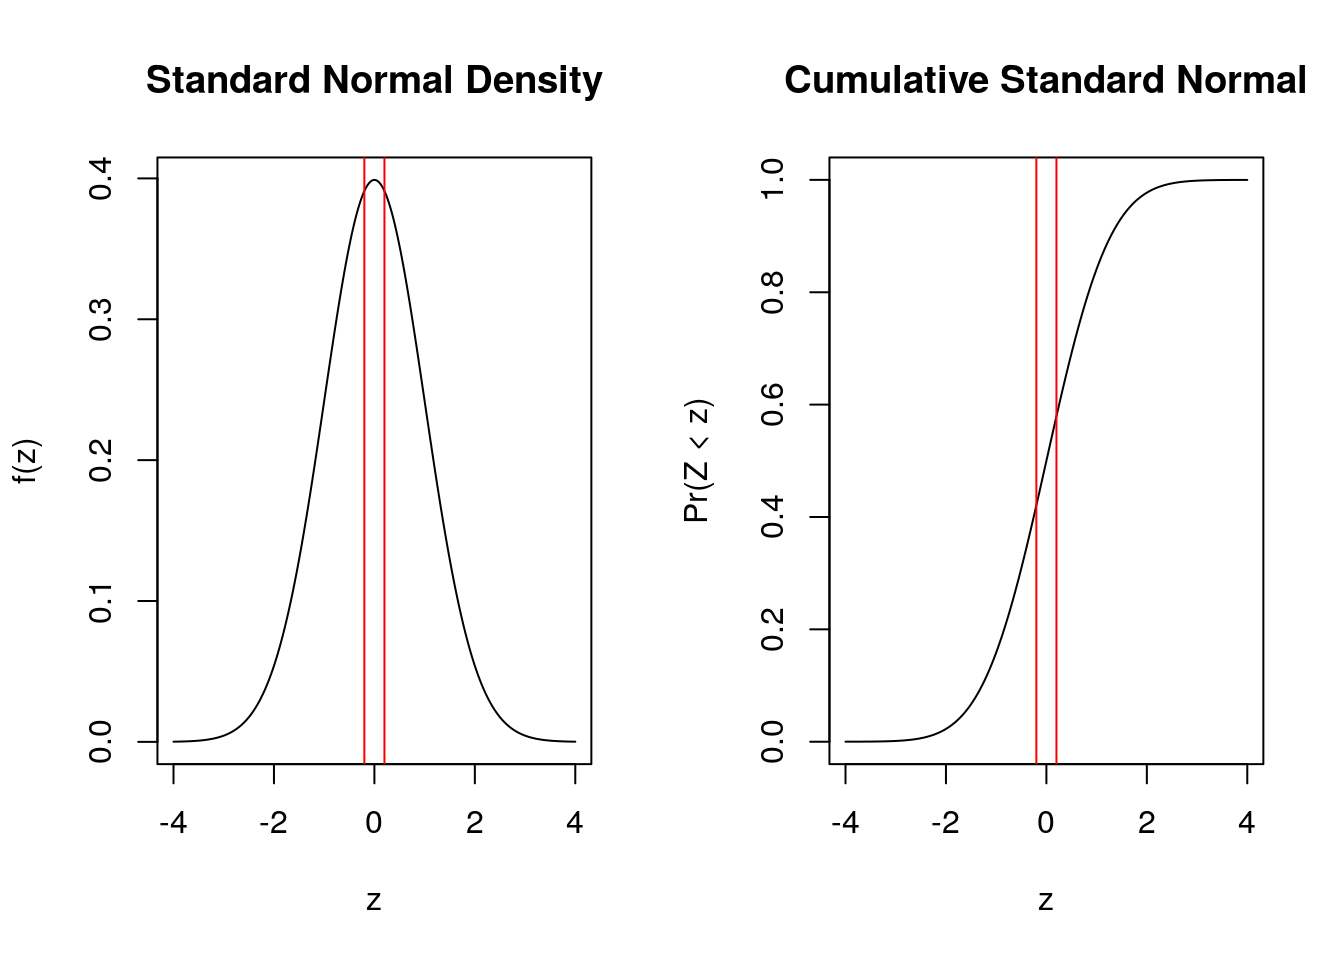
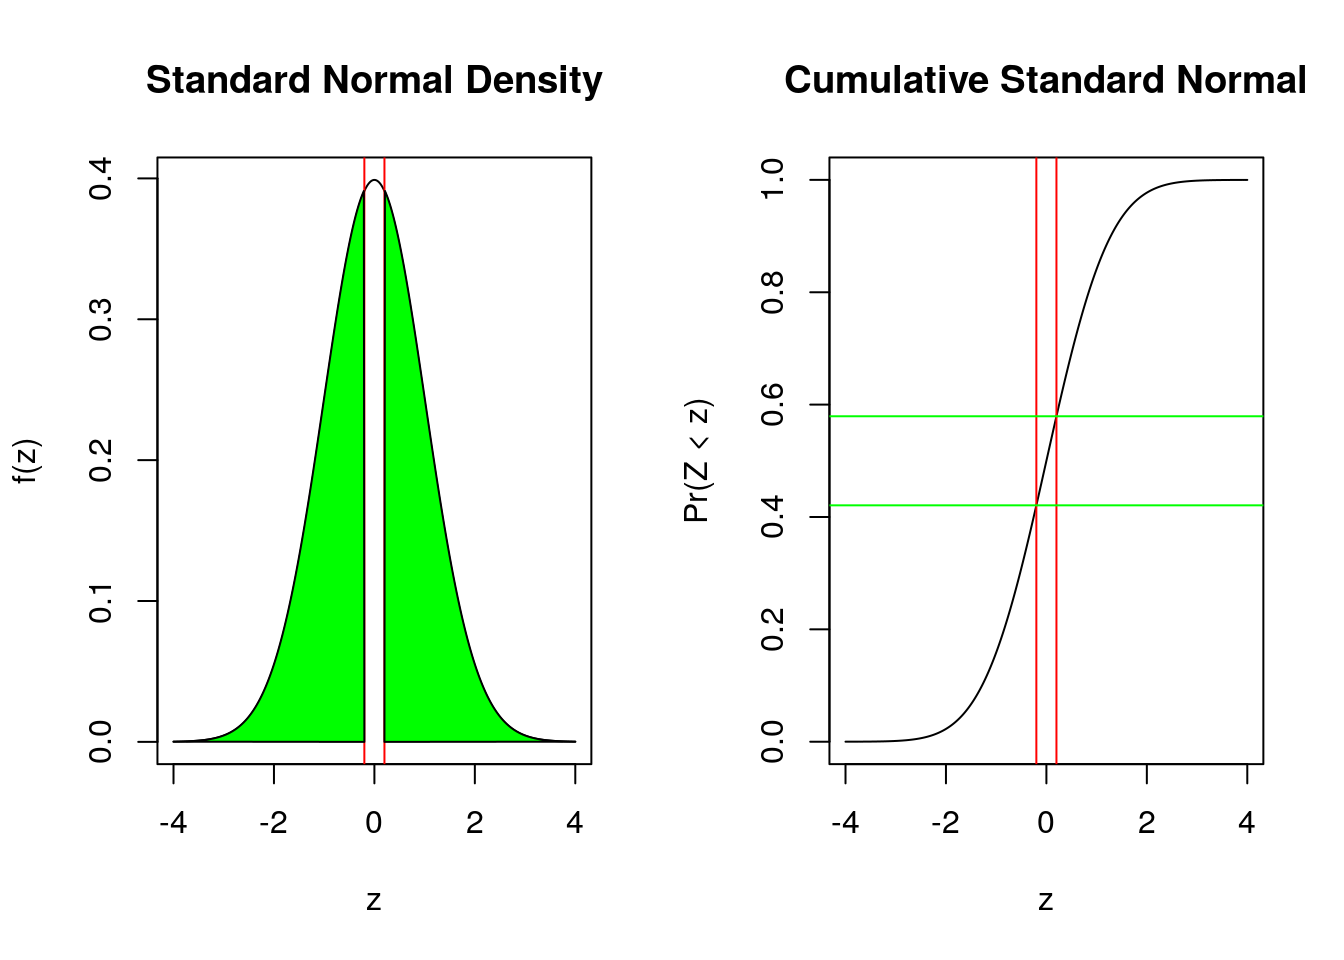
Fix post on proportions

Changed region(s): [[0.1562, 0.2188, 0.4062, 0.7812]]

diff --git a/public/r/workedproportion/index.html b/public/r/workedproportion/index.html
@@ -440,8 +440,11 @@ abline(h=c(0.025,0.975), col=&quot;red&quot;)</code></pre>
 <pre class="r"><code>par(mfrow=c(1,2))
 plot(x=seq(-4,4, by=0.01), y=dnorm(seq(-4,4, by=0.01)), type=&quot;l&quot;, xlab=&quot;z&quot;, main=&quot;Standard Normal Density&quot;, ylab=&quot;f(z)&quot;)
 abline(v=c(-0.2,0.2), col=&quot;red&quot;)
+polygon(x=c(-4,seq(-4,-0.2, by=0.01)), y=c(dnorm(seq(-4,-0.2, by=0.01)), 0), col=&quot;green&quot;)
+polygon(x=c(seq(0.2, 4, by=0.01), 4), y=c(0,dnorm(seq(0.2,4, by=0.01))), col=&quot;green&quot;)
 plot(x=seq(-4,4, by=0.01), y=pnorm(seq(-4,4, by=0.01)), type=&quot;l&quot;, xlab=&quot;z&quot;, main=&quot;Cumulative Standard Normal&quot;, ylab=&quot;Pr(Z &lt; z)&quot;)
-abline(v=c(-0.2,0.2), col=&quot;red&quot;)</code></pre>
+abline(v=c(-0.2,0.2), col=&quot;red&quot;)
+abline(h=c(pnorm(c(-0.2,0.2))), col=&quot;green&quot;)</code></pre>
 <p><img src="/R/WorkedProportion_files/figure-html/unnamed-chunk-5-1.png" width="672" /></p>
 <p>That’s the area below -0.2 and above 0.2, or</p>
 <pre class="r"><code>pnorm(-0.2)+1-pnorm(0.2)</code></pre>
@@ -458,18 +461,20 @@ abline(v=c(-0.2,0.2), col=&quot;red&quot;)</code></pre>
 ## sample estimates:
 ##    p 
 ## 0.51</code></pre>
-<p>0.51 is too close to 0.5 with this size of sample to conclude that the <em>true</em> probability isn’t 0.5.</p>
+<p>0.51 is too close to 0.5 with this size of sample to conclude that the <em>true</em> probability isn’t 0.5. Note the use of <code>correct=FALSE</code>. The binomial is discrete and we are approximating it with a normal, there is a famous correction to better approximate continuity that is the default in <em>R</em>. The statistic that <em>R</em> reports is <span class="math inline">\(\chi^2\)</span> – a squared normal or the square of our <span class="math inline">\(z\)</span>.</p>
 </div>
 <div id="directional-claims" class="section level1">
 <h1>Directional Claims</h1>
-<p>Now we only place the <span class="math inline">\(z\)</span> we obtained on the graph.</p>
+<p>Now we only place the <span class="math inline">\(z\)</span> we obtained on the graph. Let’s look at the two directions we could examine. Is the <em>true</em> probability 0.5 or greater, compared to less? If it is less, we would expect the sample data to be below the claim. Here, it is not, but the p-value will simply measure all of the probability up to the <span class="math inline">\(z\)</span> we obtained: 0.2.</p>
 <pre class="r"><code>par(mfrow=c(1,2))
 plot(x=seq(-4,4, by=0.01), y=dnorm(seq(-4,4, by=0.01)), type=&quot;l&quot;, xlab=&quot;z&quot;, main=&quot;Standard Normal Density&quot;, ylab=&quot;f(z)&quot;)
 abline(v=c(0.2), col=&quot;red&quot;)
+polygon(x=c(-4,seq(-4,0.2, by=0.01)), y=c(dnorm(seq(-4,0.2, by=0.01)), 0), col=&quot;purple&quot;)
 plot(x=seq(-4,4, by=0.01), y=pnorm(seq(-4,4, by=0.01)), type=&quot;l&quot;, xlab=&quot;z&quot;, main=&quot;Cumulative Standard Normal&quot;, ylab=&quot;Pr(Z &lt; z)&quot;)
-abline(v=c(0.2), col=&quot;red&quot;)</code></pre>
+abline(v=c(0.2), col=&quot;red&quot;)
+abline(h=pnorm(0.2), col=&quot;purple&quot;)</code></pre>
 <p><img src="/R/WorkedProportion_files/figure-html/unnamed-chunk-7-1.png" width="672" /></p>
-<p>Now let’s look at the two directions we could examine. Is the <em>true</em> probability 0.5 or greater, compared to less? If it is less, we would expect the sample data to be below the claim. Here, it is not, but the p-value will simply measure all of the probability up to the <span class="math inline">\(z\)</span> we obtained: 0.2.</p>
+<p>That’s quite likely.</p>
 <pre class="r"><code>pnorm(0.2)</code></pre>
 <pre><code>## [1] 0.5792597</code></pre>
 <pre class="r"><code>prop.test(51,100, correct=FALSE, alternative = &quot;less&quot;)</code></pre>
@@ -485,6 +490,14 @@ abline(v=c(0.2), col=&quot;red&quot;)</code></pre>
 ##    p 
 ## 0.51</code></pre>
 <p>Were we to instead evaluate the claim that it is 0.5 against the alternative that it is greater, we want the upper tail probability of 0.2.</p>
+<pre class="r"><code>par(mfrow=c(1,2))
+plot(x=seq(-4,4, by=0.01), y=dnorm(seq(-4,4, by=0.01)), type=&quot;l&quot;, xlab=&quot;z&quot;, main=&quot;Standard Normal Density&quot;, ylab=&quot;f(z)&quot;)
+abline(v=c(0.2), col=&quot;red&quot;)
+polygon(x=c(seq(0.2, 4, by=0.01), 4), y=c(0,dnorm(seq(0.2,4, by=0.01))), col=&quot;magenta&quot;)
+plot(x=seq(-4,4, by=0.01), y=pnorm(seq(-4,4, by=0.01)), type=&quot;l&quot;, xlab=&quot;z&quot;, main=&quot;Cumulative Standard Normal&quot;, ylab=&quot;Pr(Z &lt; z)&quot;)
+abline(v=c(0.2), col=&quot;red&quot;)
+abline(h=pnorm(0.2), col=&quot;magenta&quot;)</code></pre>
+<p><img src="/R/WorkedProportion_files/figure-html/unnamed-chunk-9-1.png" width="672" /></p>
 <pre class="r"><code>1-pnorm(0.2)</code></pre>
 <pre><code>## [1] 0.4207403</code></pre>
 <pre class="r"><code>prop.test(51,100, correct=FALSE, alternative = &quot;greater&quot;)</code></pre>

diff --git a/content/R/WorkedProportion.html b/content/R/WorkedProportion.html
@@ -84,8 +84,11 @@ abline(h=c(0.025,0.975), col=&quot;red&quot;)</code></pre>
 <pre class="r"><code>par(mfrow=c(1,2))
 plot(x=seq(-4,4, by=0.01), y=dnorm(seq(-4,4, by=0.01)), type=&quot;l&quot;, xlab=&quot;z&quot;, main=&quot;Standard Normal Density&quot;, ylab=&quot;f(z)&quot;)
 abline(v=c(-0.2,0.2), col=&quot;red&quot;)
+polygon(x=c(-4,seq(-4,-0.2, by=0.01)), y=c(dnorm(seq(-4,-0.2, by=0.01)), 0), col=&quot;green&quot;)
+polygon(x=c(seq(0.2, 4, by=0.01), 4), y=c(0,dnorm(seq(0.2,4, by=0.01))), col=&quot;green&quot;)
 plot(x=seq(-4,4, by=0.01), y=pnorm(seq(-4,4, by=0.01)), type=&quot;l&quot;, xlab=&quot;z&quot;, main=&quot;Cumulative Standard Normal&quot;, ylab=&quot;Pr(Z &lt; z)&quot;)
-abline(v=c(-0.2,0.2), col=&quot;red&quot;)</code></pre>
+abline(v=c(-0.2,0.2), col=&quot;red&quot;)
+abline(h=c(pnorm(c(-0.2,0.2))), col=&quot;green&quot;)</code></pre>
 <p><img src="/R/WorkedProportion_files/figure-html/unnamed-chunk-5-1.png" width="672" /></p>
 <p>That’s the area below -0.2 and above 0.2, or</p>
 <pre class="r"><code>pnorm(-0.2)+1-pnorm(0.2)</code></pre>
@@ -102,18 +105,20 @@ abline(v=c(-0.2,0.2), col=&quot;red&quot;)</code></pre>
 ## sample estimates:
 ##    p 
 ## 0.51</code></pre>
-<p>0.51 is too close to 0.5 with this size of sample to conclude that the <em>true</em> probability isn’t 0.5.</p>
+<p>0.51 is too close to 0.5 with this size of sample to conclude that the <em>true</em> probability isn’t 0.5. Note the use of <code>correct=FALSE</code>. The binomial is discrete and we are approximating it with a normal, there is a famous correction to better approximate continuity that is the default in <em>R</em>. The statistic that <em>R</em> reports is <span class="math inline">\(\chi^2\)</span> – a squared normal or the square of our <span class="math inline">\(z\)</span>.</p>
 </div>
 <div id="directional-claims" class="section level1">
 <h1>Directional Claims</h1>
-<p>Now we only place the <span class="math inline">\(z\)</span> we obtained on the graph.</p>
+<p>Now we only place the <span class="math inline">\(z\)</span> we obtained on the graph. Let’s look at the two directions we could examine. Is the <em>true</em> probability 0.5 or greater, compared to less? If it is less, we would expect the sample data to be below the claim. Here, it is not, but the p-value will simply measure all of the probability up to the <span class="math inline">\(z\)</span> we obtained: 0.2.</p>
 <pre class="r"><code>par(mfrow=c(1,2))
 plot(x=seq(-4,4, by=0.01), y=dnorm(seq(-4,4, by=0.01)), type=&quot;l&quot;, xlab=&quot;z&quot;, main=&quot;Standard Normal Density&quot;, ylab=&quot;f(z)&quot;)
 abline(v=c(0.2), col=&quot;red&quot;)
+polygon(x=c(-4,seq(-4,0.2, by=0.01)), y=c(dnorm(seq(-4,0.2, by=0.01)), 0), col=&quot;purple&quot;)
 plot(x=seq(-4,4, by=0.01), y=pnorm(seq(-4,4, by=0.01)), type=&quot;l&quot;, xlab=&quot;z&quot;, main=&quot;Cumulative Standard Normal&quot;, ylab=&quot;Pr(Z &lt; z)&quot;)
-abline(v=c(0.2), col=&quot;red&quot;)</code></pre>
+abline(v=c(0.2), col=&quot;red&quot;)
+abline(h=pnorm(0.2), col=&quot;purple&quot;)</code></pre>
 <p><img src="/R/WorkedProportion_files/figure-html/unnamed-chunk-7-1.png" width="672" /></p>
-<p>Now let’s look at the two directions we could examine. Is the <em>true</em> probability 0.5 or greater, compared to less? If it is less, we would expect the sample data to be below the claim. Here, it is not, but the p-value will simply measure all of the probability up to the <span class="math inline">\(z\)</span> we obtained: 0.2.</p>
+<p>That’s quite likely.</p>
 <pre class="r"><code>pnorm(0.2)</code></pre>
 <pre><code>## [1] 0.5792597</code></pre>
 <pre class="r"><code>prop.test(51,100, correct=FALSE, alternative = &quot;less&quot;)</code></pre>
@@ -129,6 +134,14 @@ abline(v=c(0.2), col=&quot;red&quot;)</code></pre>
 ##    p 
 ## 0.51</code></pre>
 <p>Were we to instead evaluate the claim that it is 0.5 against the alternative that it is greater, we want the upper tail probability of 0.2.</p>
+<pre class="r"><code>par(mfrow=c(1,2))
+plot(x=seq(-4,4, by=0.01), y=dnorm(seq(-4,4, by=0.01)), type=&quot;l&quot;, xlab=&quot;z&quot;, main=&quot;Standard Normal Density&quot;, ylab=&quot;f(z)&quot;)
+abline(v=c(0.2), col=&quot;red&quot;)
+polygon(x=c(seq(0.2, 4, by=0.01), 4), y=c(0,dnorm(seq(0.2,4, by=0.01))), col=&quot;magenta&quot;)
+plot(x=seq(-4,4, by=0.01), y=pnorm(seq(-4,4, by=0.01)), type=&quot;l&quot;, xlab=&quot;z&quot;, main=&quot;Cumulative Standard Normal&quot;, ylab=&quot;Pr(Z &lt; z)&quot;)
+abline(v=c(0.2), col=&quot;red&quot;)
+abline(h=pnorm(0.2), col=&quot;magenta&quot;)</code></pre>
+<p><img src="/R/WorkedProportion_files/figure-html/unnamed-chunk-9-1.png" width="672" /></p>
 <pre class="r"><code>1-pnorm(0.2)</code></pre>
 <pre><code>## [1] 0.4207403</code></pre>
 <pre class="r"><code>prop.test(51,100, correct=FALSE, alternative = &quot;greater&quot;)</code></pre>
